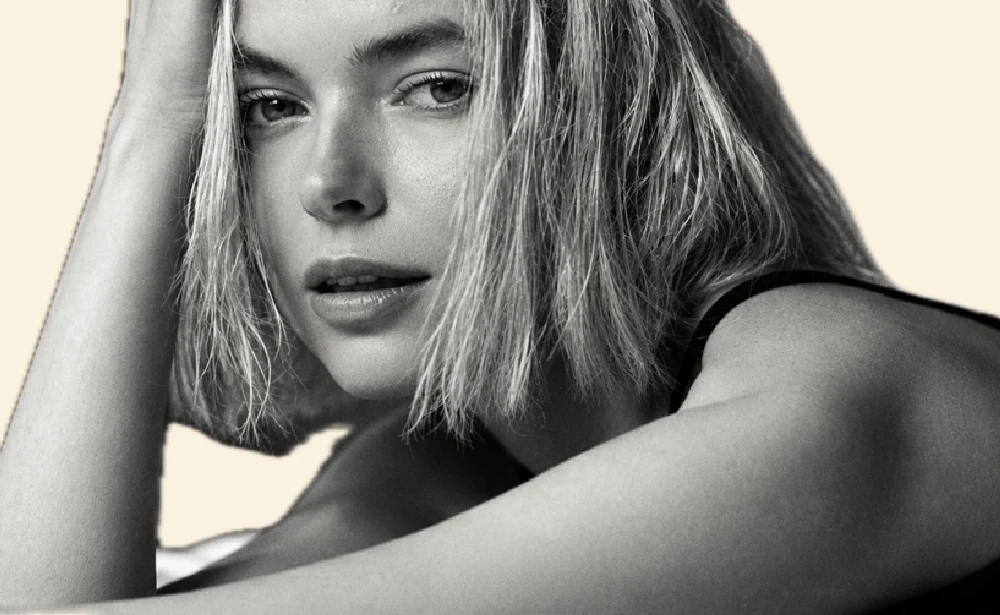
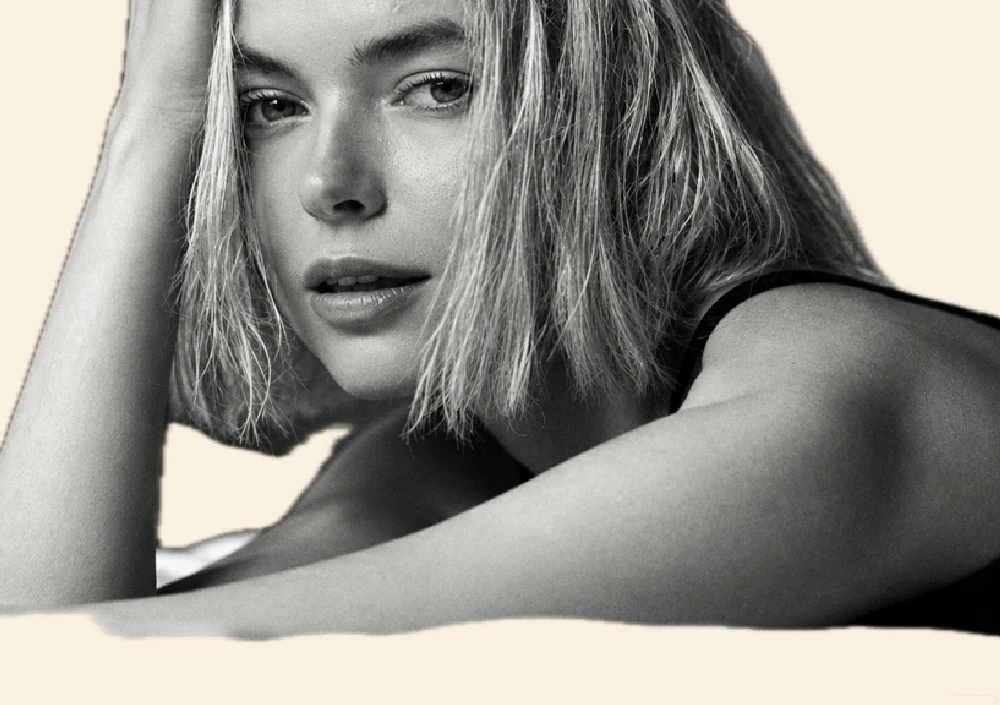
Update mobile draft v2

diff --git a/lab-v2m/index.html b/lab-v2m/index.html
@@ -25,8 +25,8 @@ section{position:relative;width:100%}
 /* ---------- 1. hero ---------- */
 #hero{height:230svh}
 #hero .sticky{background:var(--beige)}
-.face{position:absolute;left:2%;width:96%;top:5%}
-.headline{position:absolute;left:0;right:0;top:calc(5% + var(--col) * 1.05);text-align:center;
+.face{position:absolute;left:2%;width:96%;top:12%}
+.headline{position:absolute;left:0;right:0;top:calc(12% + var(--col) * 1.05);text-align:center;
   font-family:'Rubik Spray Paint',sans-serif;font-size:calc(var(--col) * .086);line-height:1.08;letter-spacing:-.01em;padding:0 2%;white-space:nowrap}
 .headline .ch{display:inline-block;background:linear-gradient(180deg,#7d0815 0%,#b3121f 55%,#d01c2c 100%);
   -webkit-background-clip:text;background-clip:text;color:transparent}
@@ -47,16 +47,18 @@ section{position:relative;width:100%}
   82%,100%{filter:brightness(1);opacity:1}
 }
 @keyframes sweep{0%{background-position:120% 0;opacity:1}90%{opacity:1}100%{background-position:-20% 0;opacity:0}}
-#curtains{position:absolute;left:0;top:0;width:100%;height:calc(5% + var(--col) * 1.03);pointer-events:none;-webkit-mask-image:linear-gradient(#000 82%,transparent);mask-image:linear-gradient(#000 82%,transparent)}
+#curtains{position:absolute;left:0;top:0;width:100%;height:calc(12% + var(--col) * 1.03);pointer-events:none;-webkit-mask-image:linear-gradient(#000 82%,transparent);mask-image:linear-gradient(#000 82%,transparent)}
 
 /* ---------- 2. keyhole ---------- */
 #keyhole{height:330svh;background:#000}
 #keyhole .sticky{background:#000}
 .kh-photo{position:absolute;inset:0;width:100%;height:100%;object-fit:cover}
-#khSvg{position:absolute;inset:0;width:100%;height:100%}
-.kh-text{font-family:'Pangolin',sans-serif;fill:#efdcc0}
-.sign{font-family:'Great Vibes',cursive;fill:#efdcc0}
-.key{position:absolute;width:calc(var(--col)*.16);pointer-events:none;transform-origin:30% 12%;will-change:transform}
+.kh-wrap{position:absolute;left:0;top:0;width:calc(var(--col)*1.19);aspect-ratio:736/920;transform-origin:0 0;will-change:transform}
+.kh-frame{position:absolute;inset:0;width:100%;height:100%;box-shadow:0 0 0 300vmax #000}
+.kh-brush,.kh-letters{position:absolute;inset:0;width:100%;height:100%}
+.kh-brush path{fill:none;stroke:#fff;stroke-width:2.6;stroke-linecap:round;opacity:.92}
+.kh-brush path.b2{stroke-width:1.2;opacity:.45}
+.key{position:absolute;width:calc(var(--col)*.12);pointer-events:none;transform-origin:30% 12%;will-change:transform}
 
 /* ---------- 3. doors ---------- */
 #doors{height:100svh;min-height:calc(var(--col)*1.6);background:var(--beige);overflow:hidden;touch-action:pan-y}
@@ -70,9 +72,7 @@ section{position:relative;width:100%}
 .door .hint{position:absolute;left:0;right:0;top:3%;text-align:center;font-family:'Bad Script',cursive;color:#fff;font-size:calc(var(--col)*.058);line-height:1.05;pointer-events:none}
 .door .hint b{font-weight:400;display:inline-block;margin:0 .3em}
 .door .khole{position:absolute;left:50%;top:58%;width:6%;height:auto;transform:translate(-50%,-50%);pointer-events:none}
-.fallen-key{position:absolute;right:3%;top:1%;width:calc(var(--col)*.11);transform:translateY(-120svh) rotate(-35deg);z-index:30;pointer-events:none}
-.fallen-key.in{animation:keydrop 1.1s cubic-bezier(.3,0,.6,1) forwards}
-@keyframes keydrop{0%{transform:translateY(-120svh) rotate(-80deg)}70%{transform:translateY(0) rotate(-28deg)}82%{transform:translateY(-14px) rotate(-38deg)}100%{transform:translateY(0) rotate(-35deg)}}
+.fallen-key{position:absolute;left:22%;top:4%;width:22%;transform-origin:50% 20%;z-index:5;pointer-events:none;filter:drop-shadow(2px 4px 3px rgba(0,0,0,.45))}
 
 .door-view{position:fixed;inset:0;z-index:100;display:none}
 .door-view.on{display:block}
@@ -94,10 +94,9 @@ section{position:relative;width:100%}
 .about-p{width:100%;margin-top:-6%;position:relative;z-index:1}
 
 /* ---------- 5. japan ---------- */
-#japan{height:calc(var(--col)*16/9);background:url(assets/flag.webp) center/cover no-repeat;overflow:hidden}
-.strip{position:absolute;left:0;right:0;top:27%;height:46%;overflow:hidden}
-.track{display:flex;height:100%;width:max-content;animation:run 40s linear infinite}
-.track img{height:100%;width:auto}
+#japan{height:calc(var(--col)*1.15);overflow:hidden;background:var(--beige)}
+.pline{position:absolute;inset:0}
+.pline img{position:absolute;top:50%;object-fit:cover;will-change:transform,width,height}
 @keyframes run{to{transform:translateX(-50%)}}
 
 /* ---------- 6/9. video ---------- */
@@ -106,9 +105,9 @@ section{position:relative;width:100%}
 .vbox video{position:absolute;inset:0;width:100%;height:100%;object-fit:cover}
 
 /* ---------- 7. logos ---------- */
-#logos{padding:12% 0;display:flex;flex-direction:column;gap:5%;justify-content:center;min-height:calc(var(--col)*16/9)}
+#logos{padding:12% 0;display:flex;flex-direction:column;gap:22px;justify-content:center;min-height:calc(var(--col)*16/9)}
 .lrow{overflow:hidden;width:100%}
-.lrow .ltrack{display:flex;gap:10px;width:max-content;animation:run 45s linear infinite}
+.lrow .ltrack{display:flex;gap:26px;width:max-content;animation:run 45s linear infinite}
 .lrow.rev .ltrack{animation-direction:reverse}
 .ltrack img{width:calc(var(--col)*.34);aspect-ratio:4/3;object-fit:cover;filter:grayscale(1) contrast(1.1);border:1px solid rgba(76,10,18,.25)}
 
@@ -156,14 +155,17 @@ section{position:relative;width:100%}
 <section id="keyhole">
   <div class="sticky" id="khStage">
     <img class="kh-photo" src="assets/keyhole_photo.webp" alt="">
-    <svg id="khSvg" preserveAspectRatio="none"></svg>
+    <div class="kh-wrap" id="khWrap">
+      <img class="kh-frame" src="assets/kh_frame.webp" alt="">
+      <svg class="kh-brush" viewBox="0 0 736 920"><path d="M256.3 122.5C228.6 131.7 219.9 138.7 213.3 145.4C206.6 152.1 199.9 160.5 196.0 168.0C192.2 175.6 191.0 183.2 190.2 190.7C189.4 198.1 190.0 205.1 191.1 213.0C192.2 220.8 193.8 230.2 196.8 237.9C199.8 245.7 204.3 251.8 209.2 259.4C214.0 267.0 220.6 276.2 225.9 283.6C231.2 291.1 235.4 297.3 240.8 304.1C246.1 311.0 252.6 317.6 258.0 324.7C263.3 331.7 268.2 339.3 272.9 346.4C277.6 353.5 283.5 359.9 286.1 367.2C288.7 374.6 289.1 383.1 288.8 390.7C288.5 398.3 285.9 405.3 284.2 412.8C282.5 420.3 280.5 428.1 278.5 435.9C276.5 443.7 274.6 451.4 272.2 459.6C269.8 467.8 266.1 476.5 264.2 485.0C262.2 493.6 262.0 502.3 260.4 510.8C258.7 519.4 255.6 528.1 254.1 536.3C252.5 544.5 251.9 552.0 250.9 560.1C249.9 568.2 249.2 576.9 248.2 584.8C247.1 592.8 245.7 600.0 244.8 607.7C243.9 615.4 243.4 623.6 242.6 631.1C241.8 638.5 240.8 644.9 240.0 652.2C239.2 659.4 239.2 666.6 238.0 674.4C236.7 682.3 234.0 691.1 232.3 699.0C230.6 707.0 229.5 714.1 227.8 721.9C226.1 729.8 223.6 738.2 222.2 746.2C220.9 754.1 219.2 763.4 219.7 769.8C220.1 776.2 220.1 782.1 224.8 784.7C229.5 787.3 240.0 785.4 247.7 785.4C255.5 785.3 263.2 784.4 271.2 784.2C279.3 783.9 287.9 784.3 295.9 783.7C303.9 783.1 311.4 781.7 319.1 780.8C326.7 779.9 333.9 779.1 341.8 778.5C349.6 777.8 358.3 777.7 366.1 776.9C374.0 776.1 381.6 774.1 388.7 773.6C395.8 773.1 402.3 773.8 409.0 773.7C415.7 773.7 422.0 773.4 428.8 773.4C435.6 773.3 442.8 772.9 449.7 773.4C456.6 773.9 463.2 775.8 470.2 776.3C477.2 776.8 486.8 778.2 491.7 776.5C496.6 774.8 499.0 771.8 499.6 766.2C500.1 760.6 496.0 750.4 494.9 742.9C493.8 735.3 493.5 728.6 492.8 721.1C492.1 713.6 491.5 705.8 490.6 697.9C489.7 690.0 488.5 681.3 487.5 673.7C486.5 666.0 485.4 659.5 484.6 651.8C483.8 644.2 483.8 635.3 482.5 627.6C481.2 620.0 478.3 613.0 476.6 606.0C475.0 598.9 473.6 592.3 472.5 585.2C471.4 578.1 471.4 570.6 470.1 563.5C468.9 556.5 466.1 549.7 464.9 542.6C463.6 535.6 463.0 528.5 462.4 521.2C461.8 513.9 461.9 506.5 461.1 498.8C460.4 491.2 458.5 483.3 457.9 475.1C457.3 466.8 457.7 457.4 457.3 449.2C457.0 441.1 456.3 434.0 455.7 425.9C455.2 417.8 453.9 409.2 454.0 400.7C454.0 392.2 452.6 383.0 456.2 374.7C459.9 366.4 469.3 358.9 476.0 350.8C482.7 342.6 490.5 333.6 496.5 325.6C502.5 317.6 507.5 310.3 511.9 302.7C516.3 295.1 520.2 287.3 523.1 279.8C526.0 272.2 527.3 264.9 529.4 257.5C531.4 250.1 533.6 242.6 535.2 235.3C536.9 228.0 538.4 221.3 539.3 213.5C540.2 205.6 542.2 196.3 540.7 188.2C539.1 180.1 534.7 172.3 530.1 164.9C525.4 157.4 519.2 149.0 512.7 143.5C506.1 138.0 498.6 134.6 490.9 132.0C483.2 129.4 474.8 127.9 466.7 127.8C458.5 127.8 450.0 128.8 442.0 131.8C433.9 134.8 426.2 140.8 418.5 145.8C410.8 150.8 403.7 155.7 395.6 161.8C387.6 167.8 377.9 178.8 370.1 182.1C362.2 185.4 354.8 185.1 348.3 181.4C341.8 177.7 337.6 165.7 331.2 159.8C324.8 153.8 316.7 150.1 309.8 145.8C302.9 141.5 296.9 137.4 289.9 134.0C282.9 130.6 273.6 127.0 267.9 125.3C262.3 123.7 261.4 123.3 255.9 124.0C250.5 124.7 242.7 126.1 235.5 129.6C228.3 133.1 219.0 138.5 212.8 145.1C206.5 151.7 201.3 161.4 197.9 169.2C194.4 176.9 193.0 184.0 192.2 191.5C191.4 199.1 192.2 206.9 192.9 214.5"/><path class="b2" d="M255.6 117.8C222.4 129.5 213.6 136.9 207.3 143.4C201.0 149.8 196.1 157.0 192.9 164.2C189.7 171.3 188.6 179.4 188.1 186.3C187.7 193.2 189.3 198.9 190.3 205.6C191.3 212.2 191.4 219.3 194.2 226.4C197.0 233.5 202.3 240.6 207.0 248.4C211.6 256.3 217.4 265.3 222.1 273.4C226.8 281.5 230.8 288.7 235.2 297.0C239.5 305.4 244.1 314.8 248.2 323.5C252.3 332.2 255.2 340.7 259.8 349.4C264.4 358.2 272.6 367.4 275.8 376.0C278.9 384.6 278.6 392.5 278.6 401.0C278.7 409.4 276.6 418.2 275.8 426.4C275.0 434.6 274.0 442.6 273.8 450.1C273.6 457.7 274.9 464.3 274.5 471.9C274.1 479.4 271.9 488.1 271.3 495.3C270.6 502.6 271.5 508.4 270.6 515.5C269.7 522.6 266.8 530.0 265.8 537.8C264.7 545.6 265.7 554.3 264.3 562.3C262.8 570.3 258.8 578.0 257.2 585.8C255.6 593.7 256.2 601.4 254.5 609.3C252.9 617.1 249.5 625.2 247.3 632.8C245.1 640.4 242.7 647.2 241.5 654.8C240.2 662.5 241.0 671.1 239.8 678.7C238.7 686.4 236.0 693.7 234.6 700.7C233.2 707.7 232.6 714.5 231.6 720.9C230.5 727.3 229.8 732.7 228.5 739.1C227.1 745.5 223.6 753.6 223.4 759.1C223.3 764.6 223.5 770.3 227.8 772.1C232.0 773.9 242.2 770.3 249.0 770.1C255.9 769.9 262.3 770.8 269.0 771.0C275.6 771.1 282.4 770.4 289.2 770.8C295.9 771.3 302.7 772.9 309.4 773.8C316.1 774.7 322.4 775.6 329.3 776.2C336.2 776.8 343.4 777.2 350.8 777.5C358.2 777.8 365.8 777.7 373.5 778.0C381.2 778.4 389.2 778.9 397.1 779.4C405.0 779.9 412.6 781.0 420.8 781.2C429.0 781.3 437.6 780.4 446.3 780.2C454.9 780.0 464.3 780.2 472.5 780.2C480.8 780.2 490.6 782.2 496.0 780.3C501.5 778.4 504.5 774.4 505.3 768.8C506.0 763.2 501.7 754.1 500.2 746.9C498.8 739.6 497.5 732.3 496.3 725.3C495.2 718.4 494.4 711.9 493.4 705.1C492.4 698.3 491.2 691.8 490.3 684.6C489.4 677.3 489.1 669.4 488.3 661.7C487.5 654.1 486.2 646.4 485.5 638.5C484.7 630.7 484.2 622.8 483.7 614.4C483.1 606.0 482.5 596.9 482.0 588.3C481.6 579.8 481.7 571.6 481.1 563.0C480.6 554.4 479.7 545.5 478.7 536.6C477.7 527.7 476.7 517.8 475.0 509.4C473.3 501.0 470.6 494.4 468.5 486.3C466.5 478.2 464.9 468.7 462.6 460.7C460.3 452.8 457.3 446.2 454.7 438.7C452.2 431.3 449.6 423.4 447.5 416.1C445.4 408.9 442.3 402.3 441.9 395.1C441.5 388.0 441.4 380.9 445.0 373.3C448.7 365.8 456.8 358.0 463.9 350.0C470.9 341.9 480.4 332.9 487.3 325.1C494.3 317.3 500.5 310.8 505.6 303.2C510.6 295.6 514.0 287.4 517.7 279.4C521.3 271.4 524.4 262.7 527.4 255.0C530.3 247.3 533.8 240.8 535.5 233.5C537.2 226.2 537.3 218.3 537.6 211.2C537.9 204.0 539.3 197.3 537.3 190.6C535.3 183.9 530.4 177.0 525.6 170.8C520.8 164.5 515.1 157.7 508.5 153.3C501.9 148.8 493.3 145.8 485.7 144.0C478.2 142.1 470.1 141.8 463.2 142.3C456.4 142.8 451.1 144.2 444.5 147.1C437.8 149.9 429.9 155.2 423.4 159.2C416.9 163.3 412.1 167.3 405.5 171.3C398.9 175.3 390.8 181.6 383.6 183.2C376.3 184.9 368.5 185.9 362.1 181.2C355.7 176.5 351.8 162.0 345.0 154.9C338.3 147.8 329.4 143.6 321.6 138.8C313.7 134.0 306.2 129.0 297.8 126.0C289.4 123.0 278.0 121.8 271.1 120.7C264.2 119.6 262.9 118.8 256.2 119.4C249.4 120.1 238.6 120.8 230.6 124.7C222.6 128.6 215.0 135.9 208.3 142.7"/></svg>
+      <img class="kh-letters" id="khLetters" src="assets/kh_letters.webp" alt="открой все двери в мире моды">
+    </div>
     <svg class="key" id="khKey" viewBox="0 0 60 160"><use href="#keyShape"/></svg>
   </div>
 </section>
 
 <!-- 3. Doors -->
 <section id="doors">
-  <svg class="fallen-key" id="fallenKey" viewBox="0 0 60 160"><use href="#keyShape"/></svg>
   <div class="collage" id="collage"></div>
 </section>
 
@@ -176,7 +178,7 @@ section{position:relative;width:100%}
 
 <!-- 5. Japan -->
 <section id="japan">
-  <div class="strip"><div class="track" id="jpTrack"></div></div>
+  <div class="pline" id="pline"></div>
 </section>
 
 <!-- 6. Showreel -->
@@ -298,9 +300,11 @@ const ctx = cv.getContext('2d');
 const hero = document.getElementById('hero');
 let curL, curR, curtainBox = null;
 let heroP = 0, heroPs = 0, sway = 0, swayV = 0, lastHeroP = 0;
-Promise.all([loadImg('assets/curtain_l.webp'), loadImg('assets/curtain_r.webp')]).then(([l, r]) => {
+const OLD = /[?&]c=old/.test(location.search);
+const CUR = OLD ? { f: 'curtain', lIn: 471, lMin: 340, rIn: 544, rMax: 642 } : { f: 'curtain2', lIn: 369, lMin: 261, rIn: 403, rMax: 469 };
+Promise.all([loadImg(`assets/${CUR.f}_l.webp`), loadImg(`assets/${CUR.f}_r.webp`)]).then(([l, r]) => {
   curL = l; curR = r;
-  curtainBox = { lIn: 472, rIn: 544, w: l.width, h: l.height }; // measured in tools
+  curtainBox = { lIn: CUR.lIn, rIn: CUR.rIn, lMin: CUR.lMin, rMax: CUR.rMax, w: l.width, h: l.height }; // measured in tools
   resizeCanvas(); tick();
 });
 function resizeCanvas() {
@@ -320,7 +324,9 @@ function drawCurtains(t) {
   const drawSide = (img, left) => {
     const inner = left ? curtainBox.lIn : curtainBox.rIn;
     const span = left ? inner : curtainBox.w - inner;
-    const xIn = left ? lerp(W * .5 + W * .03, W * .07, e) : lerp(W * .5 - W * .03, W * .93, e);
+    const notch = (left ? curtainBox.lIn - curtainBox.lMin : curtainBox.rMax - curtainBox.rIn) * sy;
+    const closed = left ? W * .5 + notch + W * .07 : W * .5 - notch - W * .07;
+    const xIn = left ? lerp(closed, W * .07, e) : lerp(closed, W * .93, e);
     const sw = span / strips;
     const sxk = Math.max(sy * comp, ((left ? xIn : W - xIn) + W * .04) / span); // always reach the screen edge
     for (let i = 0; i < strips; i++) {
@@ -342,51 +348,26 @@ function drawCurtains(t) {
 /* ================= 2. keyhole ================= */
 const khSec = document.getElementById('keyhole');
 const khStage = document.getElementById('khStage');
-const svg = document.getElementById('khSvg');
 const keyEl = document.getElementById('khKey');
-function buildKeyholeSvg() {
-  const W = khStage.clientWidth, H = khStage.clientHeight;
-  svg.setAttribute('viewBox', `0 0 ${W} ${H}`);
-  svg.innerHTML = `
-  <defs>
-    <linearGradient id="rim" x1="0" y1="0" x2="1" y2="1"><stop offset="0" stop-color="#f3dca6"/><stop offset=".5" stop-color="#c49a52"/><stop offset="1" stop-color="#7a5524"/></linearGradient>
-    <mask id="hole"><rect width="${W}" height="${H}" fill="#fff"/><path id="khMaskPath" d="${KH}" fill="#000"/></mask>
-    <path id="arcL" d="M ${W*.17} ${H*.78} C ${W*.02} ${H*.55}, ${W*.05} ${H*.25}, ${W*.32} ${H*.13}"/>
-    <path id="arcR" d="M ${W*.36} ${H*.11} C ${W*.55} ${H*.05}, ${W*.78} ${H*.07}, ${W*.95} ${H*.17}"/>
-  </defs>
-  <rect width="${W}" height="${H}" fill="#000" mask="url(#hole)"/>
-  <path id="khRim" d="${KH}" fill="none" stroke="url(#rim)" vector-effect="non-scaling-stroke" stroke-width="6"/>
-  <g id="khTexts">
-    <text class="kh-text" font-size="${W*.085}"><textPath href="#arcL">открой все двери</textPath></text>
-    <text class="kh-text" font-size="${W*.085}"><textPath href="#arcR">♥ в мире моды</textPath></text>
-    <text class="sign" font-size="${W*.13}" x="${W*.54}" y="${H*.93}" text-anchor="middle" transform="rotate(-8 ${W*.54} ${H*.93})">Yulia Gnedchik</text>
-  </g>`;
-}
+const khWrap = document.getElementById('khWrap'), khLetters = document.getElementById('khLetters');
 function drawKeyhole(p) {
   const W = khStage.clientWidth, H = khStage.clientHeight;
-  // base keyhole size
-  const bw = W * .62, scale0 = bw / KH_W;
-  const cx = W * .5, cy = H * .5;
-  // grow: pivot at point (50,105) of the keyhole (lower part, so the heart notch leaves the top)
-  const grow = lerp(1, 12, Math.pow(clamp(p / .8), 2.2));
-  const s = scale0 * grow;
-  const px = 50, py = 105;
-  const tx = cx - px * s, ty = cy + (105 - 75) * scale0 - py * s;
-  const tr = `translate(${tx} ${ty}) scale(${s})`;
-  const mp = document.getElementById('khMaskPath'), rim = document.getElementById('khRim');
-  if (!mp) return;
-  mp.setAttribute('transform', tr); rim.setAttribute('transform', tr);
-  rim.style.opacity = clamp(1 - (grow - 1) / 4);
-  document.getElementById('khTexts').style.opacity = clamp(1 - p * 3.5);
-  // key: small in "hand" position at right side of the keyhole, grows, then falls
-  const kp = clamp((p - .2) / .8);
-  const kw = W * .16;
-  const ks = lerp(.55, 2.1, ease(clamp(kp / .7)));
-  const fall = Math.pow(clamp((kp - .45) / .55), 2);
-  const kx = cx + bw * .28, ky = cy - bw * .05;
+  const ww = khWrap.offsetWidth, k0 = ww / 736;
+  const grow = lerp(1, 7.5, Math.pow(clamp(p / .85), 2.6));
+  const k = k0 * grow;
+  const cx = W * .5, cy = H * .52;
+  const px = 367, py = 620;
+  const tx = cx - px * k, ty = cy + (py - 455) * k0 - py * k;
+  khWrap.style.transform = `translate(${tx}px, ${ty}px) scale(${grow})`;
+  khLetters.style.opacity = clamp(1 - p * 3.5);
+  const kp = clamp((p - .15) / .85);
+  const kw = W * .12;
+  const ks = lerp(.6, 1.25, ease(clamp(kp / .7)));
+  const fall = Math.pow(clamp((kp - .5) / .5), 2);
+  const kx = cx + 120 * k0, ky = cy - 40 * k0;
   keyEl.style.left = (kx - kw * .3) + 'px';
-  keyEl.style.top = (ky) + 'px';
-  keyEl.style.transform = `translateY(${fall * H * 1.3}px) rotate(${lerp(-18, 40, ease(clamp(kp))) + fall * 60}deg) scale(${ks})`;
+  keyEl.style.top = ky + 'px';
+  keyEl.style.transform = `translateY(${fall * H * 1.2}px) rotate(${lerp(-18, 30, ease(kp)) + fall * 50}deg) scale(${ks})`;
 }
 
 /* ================= 3. doors ================= */
@@ -408,6 +389,7 @@ doorsData.forEach((d, i) => {
   el.className = 'door';
   el.innerHTML = `<img src="${d.src}" alt="Дверь 0${d.n}"><img class="khole" src="${keyholeImg}" alt="">
     <div class="hint">двери можно<br><b>←</b>перелистывать<b>→</b></div><div class="lbl">Дверь 0${d.n}</div>`;
+  if (d.n === 2) el.insertAdjacentHTML('beforeend', '<svg class="fallen-key" id="fallenKey" viewBox="0 0 60 160"><use href="#keyShape"/></svg>');
   d.el = el; collage.appendChild(el);
 });
 function layoutDoors() {
@@ -438,10 +420,14 @@ layoutDoors();
   });
   collage.addEventListener('pointercancel', () => down = false);
 }
-// key drops onto the doors when the section shows up
-const fk = document.getElementById('fallenKey');
-new IntersectionObserver((es, ob) => { es.forEach(en => { if (en.isIntersecting) { fk.classList.add('in'); ob.disconnect(); } }); }, { threshold: .35 }).observe(document.getElementById('doors'));
-
+const fk = document.getElementById('fallenKey'), doorsSec = document.getElementById('doors');
+const bounce = t => { const n = 7.5625, d = 2.75; if (t < 1 / d) return n * t * t; if (t < 2 / d) return n * (t -= 1.5 / d) * t + .75; if (t < 2.5 / d) return n * (t -= 2.25 / d) * t + .9375; return n * (t -= 2.625 / d) * t + .984375; };
+function drawFallenKey() {
+  const r = doorsSec.getBoundingClientRect();
+  const kp = clamp((innerHeight - r.top) / (innerHeight * .95));
+  const y = (1 - bounce(kp)) * -innerHeight * .9;
+  fk.style.transform = `translateY(${y}px) rotate(${lerp(-80, -35, kp)}deg)`;
+}
 /* door view (zoom door, then keyhole grows into the info screen) */
 const dv = document.getElementById('dv'), dvDoor = document.getElementById('dvDoor'), dvInfo = document.getElementById('dvInfo');
 const maskURI = khURI(khSvg(false));
@@ -475,7 +461,7 @@ async function openDoor(d) {
   const W = innerWidth, H = innerHeight, full = { x: 0, y: 0, w: W, h: H };
   await tween(650, t => setRect(dvDoor, { x: lerp(openRect.x, 0, t), y: lerp(openRect.y, 0, t), w: lerp(openRect.w, W, t), h: lerp(openRect.h, H, t) }));
   const start = W * .055;
-  await tween(900, t => setMask(lerp(start, Math.max(W, H) * 9, t * t)));
+  await tween(2200, t => setMask(lerp(start, Math.max(W, H) * 9, t * t * t)));
   dv.classList.add('ready'); anim = false;
 }
 async function closeDoor(instant) {
@@ -484,7 +470,7 @@ async function closeDoor(instant) {
   const W = innerWidth, H = innerHeight;
   if (!instant) {
     const start = W * .055;
-    await tween(700, t => setMask(lerp(Math.max(W, H) * 9, start, 1 - (1 - t) * (1 - t))));
+    await tween(1500, t => setMask(lerp(Math.max(W, H) * 9, start, 1 - Math.pow(1 - t, 3))));
     setMask(0.01);
     const r = doorsData[cur].el.getBoundingClientRect();
     await tween(600, t => setRect(dvDoor, { x: lerp(0, r.x, t), y: lerp(0, r.y, t), w: lerp(W, r.width, t), h: lerp(H, r.height, t) }));
@@ -497,11 +483,35 @@ document.getElementById('dvBuy').onclick = async () => {
   document.getElementById('tariffs').scrollIntoView({ behavior: 'smooth', block: 'start' });
 };
 
-/* ================= 5. japan strip ================= */
-{
-  const tr = document.getElementById('jpTrack');
-  const imgs = [1, 2, 3, 4, 5, 6].map(i => `<img src="assets/jp_${i}.webp" alt="">`).join('');
-  tr.innerHTML = imgs + imgs;
+/* ================= 5. photo line ================= */
+const pline = document.getElementById('pline');
+const LINE = [1, 2, 3, 4, 5].map(i => `assets/line_${i}.webp`);
+const SLOTS_N = 9;
+const lineEls = [];
+for (let i = 0; i < SLOTS_N; i++) { const im = document.createElement('img'); im.alt = ''; pline.appendChild(im); lineEls.push(im); }
+let phase = 0;
+const fsz = u => 1 / (1 + .42 * Math.pow(Math.abs(u), 1.25));
+const Fint = (a, b) => { let t = 0; const n = 24, h = (b - a) / n; for (let i = 0; i < n; i++) t += fsz(a + (i + .5) * h) * h; return t; };
+const Fx = u => u >= 0 ? Fint(0, u) : -Fint(u, 0);
+function drawLine(dt) {
+  const W = pline.clientWidth, H = pline.clientHeight;
+  phase += dt * .32;
+  const base = Math.floor(phase), fr = phase - base;
+  const bw = W * .46, bh = H * .82;
+  const half = (SLOTS_N - 1) / 2;
+  for (let k = 0; k < SLOTS_N; k++) {
+    const off = k - half;
+    const u = off - fr;
+    const idx = ((base + off) % LINE.length + LINE.length) % LINE.length;
+    const el = lineEls[k];
+    const want = LINE[idx];
+    if (el.dataset.src !== want) { el.src = want; el.dataset.src = want; }
+    const x0 = W / 2 + bw * Fx(u - .5), x1 = W / 2 + bw * Fx(u + .5);
+    const hh = bh * fsz(u);
+    el.style.left = x0 + 'px'; el.style.width = (x1 - x0 + .5) + 'px';
+    el.style.height = hh + 'px'; el.style.transform = 'translateY(-50%)';
+    el.style.zIndex = 10 - Math.round(Math.abs(u));
+  }
 }
 
 /* ================= 7. logos ================= */
@@ -524,7 +534,7 @@ document.querySelectorAll('.ltrack').forEach(tr => {
     flippingTime: 1000, mobileScrollSupport: true, autoSize: true, swipeDistance: 20
   });
   pf.loadFromHTML(book.querySelectorAll('.page'));
-  let idle = 0;
+  let idle = 0, dir = 1;
   pf.on('flip', () => { idle = 0; });
   pf.on('changeState', e => { if (e.data !== 'read') idle = 0; });
   setInterval(() => {
@@ -532,7 +542,9 @@ document.querySelectorAll('.ltrack').forEach(tr => {
     if (r.bottom < 0 || r.top > innerHeight) return;
     if (++idle < 2) return;
     idle = 0;
-    if (pf.getCurrentPageIndex() >= pf.getPageCount() - 1) pf.flip(0); else pf.flipNext();
+    const i = pf.getCurrentPageIndex(), n = pf.getPageCount();
+    if (i >= n - 1) dir = -1; else if (i <= 0) dir = 1;
+    dir > 0 ? pf.flipNext() : pf.flipPrev();
   }, 1800);
 }
 
@@ -565,15 +577,29 @@ function drawPhone() {
   recv.style.top = (L - 2) + 'px';
   hang.style.transform = `rotate(${phy.a}deg)`;
 }
+let tiltA = 0, lastAx = null;
+addEventListener('deviceorientation', e => { if (e.gamma != null) tiltA = clamp(-e.gamma * .8, -32, 32); });
+addEventListener('devicemotion', e => {
+  const a = e.accelerationIncludingGravity;
+  if (!a || a.x == null) return;
+  if (lastAx != null) phy.va += clamp((a.x - lastAx) * 6, -40, 40);
+  lastAx = a.x;
+});
+document.getElementById('phone').addEventListener('touchend', function ask() {
+  const D = window.DeviceOrientationEvent, M = window.DeviceMotionEvent;
+  if (D && typeof D.requestPermission === 'function') D.requestPermission().catch(() => {});
+  if (M && typeof M.requestPermission === 'function') M.requestPermission().catch(() => {});
+  this.removeEventListener('touchend', ask);
+}, { passive: true });
 function stepPhone(dt) {
   const ds = scrollY - lastScroll; lastScroll = scrollY;
   // inertia: page moves, receiver lags behind
   phy.vy += ds * 5; phy.va += ds * .3 * (Math.sin(performance.now() / 300) > 0 ? 1 : -.6);
   const k = 38, c = 4.2, ka = 22, ca = 2.6;
   phy.vy += (-k * phy.y - c * phy.vy) * dt;
-  phy.va += (-ka * phy.a - ca * phy.va) * dt;
+  phy.va += (-ka * (phy.a - tiltA) - ca * phy.va) * dt;
   phy.y = clamp(phy.y + phy.vy * dt, -innerWidth * .25, innerWidth * .45);
-  phy.a = clamp(phy.a + phy.va * dt, -9, 9);
+  phy.a = clamp(phy.a + phy.va * dt, -40, 40);
 }
 
 /* ================= main loop ================= */
@@ -593,14 +619,16 @@ function tick() {
   // keyhole
   const kr = khSec.getBoundingClientRect();
   if (kr.top < innerHeight && kr.bottom > 0) drawKeyhole(progress(khSec));
+  const dr = doorsSec.getBoundingClientRect();
+  if (dr.top < innerHeight * 1.2 && dr.bottom > 0) drawFallenKey();
+  const lr = pline.getBoundingClientRect();
+  if (lr.top < innerHeight && lr.bottom > 0) drawLine(dt);
   // phone
   stepPhone(dt);
   const pr = document.getElementById('phone').getBoundingClientRect();
   if (pr.top < innerHeight && pr.bottom > 0) drawPhone();
   requestAnimationFrame(tick);
 }
-buildKeyholeSvg();
-addEventListener('resize', () => { buildKeyholeSvg(); });
 if (!curL) requestAnimationFrame(() => {}); // tick starts after curtains load
 })();
 </script>
